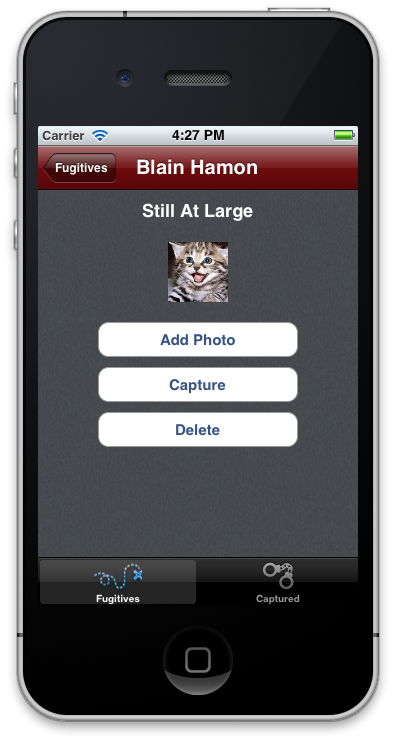
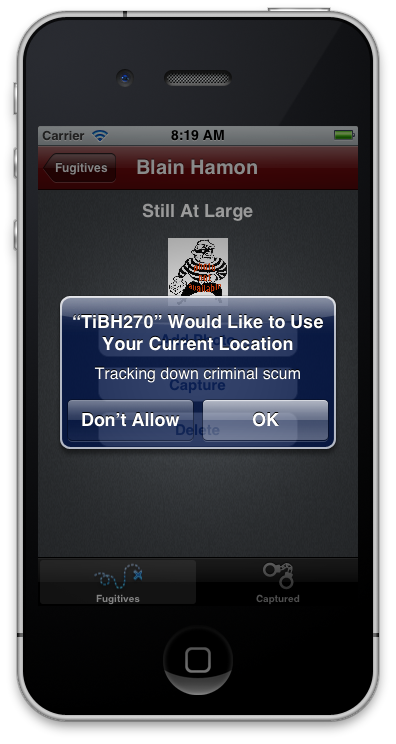
Lesson 270 and lab finished

diff --git a/270/lab.html b/270/lab.html
@@ -2,8 +2,8 @@
 <html>
 	<head>
 		<meta charset="utf-8">
-		<title class="l_labname">Lab: Working with Media and the File System</title>
-		<meta name="description" content="Building Native Mobile Apps, Working with Local Data">
+		<title class="l_labname">Lab: Using Location Services</title>
+		<meta name="description" content="Building Native Mobile Apps,  Using Location Services">
     	<meta name="author" content="Appcelerator, Inc." />
 		
 		<link href='http://fonts.googleapis.com/css?family=Lato:400,700,400italic,700italic' rel='stylesheet' type='text/css'>
@@ -52,66 +52,80 @@
 <section>
 
 <!-- YOUR LAB CONTENT GOES HERE -->
-<h1 class="l_labname">Lab - Working with Media and the File System</h1>
-<p class="l_mission"><img src='labimages/finished_iphone.png' style='height:300px;float:right;margin-top:-40px;margin-bottom: 10px;'><strong>Mission: </strong>In this lab assignment, you will use the camera to add an image to your fugitive. You will save the image to the file system, and provide a url to the database for easy retrieval. You will also learn how to repopulate your database with remote data.</p>
+<h1 class="l_labname">Lab -  Using Location Services</h1>
+<p class="l_mission"><img src='labimages/finished_iphone.png' style='height:300px;float:right;margin-top:-40px;margin-bottom: 10px;'><strong>Mission: </strong>In this lab assignment, you will add geolocation support to TiBountyHunter. You will capture the latitude and longitude values marking the location where a fugitive is captured and store that data in the database. You'll offer the user an option to plot that location on a map.</p>
 
-<p class="l_specification"><strong>Specification: </strong>Start with the TiBountyHunter project you created for the last assignment. You will now add the camera function and mechanisms to support taking a picture, saving it, and retrieving it for viewing in a detail window. To successfully complete this lab, you must develop an application that meets the following description:</p>
+<p class="l_specification"><strong>Specification: </strong>Start with the TiBountyHunter project you created for the last assignment. You will add the features needed to support location services. To successfully complete this lab, you must develop an application that meets the following description:</p>
 
 <ul style="width:70%">
-	<li class="l_spec1">Add a button in the detail view to snap a picture with the camera.</li>
-	<li class="l_spec2">Save the image to the file system and in the database as a url.</li>
-	<li class="l_spec3">Extend the database model with the addPhoto function</li>
-	<li class="l_spec4">Extend the UI with the needed buttons and images</li>
+	<li class="l_spec1">Modify the database to store the latitude and longitude of where the fugitive was captured. For simplicity, rather than altering the existing database, modify the CREATE TABLE statement to define fields for those values. Then, uninstall the app from the simulator/emulator to force the database to be created again.</li>
+	<li class="l_spec2">When the Capture button is tapped, store the geo location in the database</li>
+	<li class="l_spec3">Add a Show on Map button that will display a map when clicked. The map should display the region surrounding the location where the fugitive was captured. An annotation should mark the specific location.</li>
+	<li class="l_spec4">Tip: To install onto an Android device, use the Google maps key from the Kitchen Sink app so that the map will work.</li>
 </ul>
 
 <table>
 	<tr>
-		<td colspan="2" class="labinstructions l_step1">1. Open the TiBountyHunter project you created for the last assignment, or download the starting point code and import it as a new project in Studio: <a href='http://assets.appcelerator.com.s3.amazonaws.com/app_u/code/TiBH260.zip'>http://assets.appcelerator.com.s3.amazonaws.com/app_u/code/TiBH260.zip</a></td>
+		<td colspan="2" class="labinstructions l_step1">1. Open the TiBountyHunter project you created for the last assignment, or download the starting point code and import it as a new project in Studio: <a href='http://assets.appcelerator.com.s3.amazonaws.com/app_u/code/TiBH270.zip'>http://assets.appcelerator.com.s3.amazonaws.com/app_u/code/TiBH270.zip</a></td>
 	</tr>
 	<tr>
 		<td class="tdfiller"><!-- leave empty--></td>
 		<td class="labexplanations l_stepexplanation1"></td>
 	</tr>
 	<tr>
-		<td colspan="2" class="labinstructions l_labstep2">2. Edit the lib/db.js file. <ul style='list-style:none;'><li>Update the 'bootstrap' code so that your database will include a TEXT field named 'url' to store the path to the fugitive's photo.</li><li>update list() to return the value of the 'url' field</li><li>Add a new addPhoto() function that will accept the fugitive's ID and the photo URL. It should fire the 'database updated' event.</li></ul></td>
+		<td colspan="2" class="labinstructions l_labstep2">2. Edit the lib/db.js file. <ul style='list-style:none;'><li>Update the 'bootstrap' code so that your database will include two new REAL fields named capturedLat and capturedLong</li><li>Update list() to return the value of those fields</li><li>Update the bust() function to accept two arguments for the latitude and longitude; store those values in the database</li></ul></td>
 	</tr>
 	<tr>
 		<td class="tdfiller"><!-- leave empty--></td>
 		<td class="labexplanations l_stepexplanation2">Because you're changing the database and we're not writing any alter-table statements, you will need to uninstall the app from the simulator/emulator. If you're starting a new project rather than editing your earlier work, this won't be a problem for you.</td>
 	</tr>
 <tr>
-	<td colspan="2" class="labinstructions l_labstep3">3. Edit the ui/common/DetailWindow.js file. <ul style='list-style:none;'><li>Add an ImageView at the top of the window that will show either the fugitive's photo or '/images/burglar.png' image if a photo isn't available.</li><li>Below the image, add an 'Add Photo' button that when clicked will show either the camera or photo gallery picker (if the camera isn't supported). Save the resulting image to the applicationDataDirectory with the name 'photo'+bountyID+'.png'. Save the path to that file to the database. Enable editing and save the result back to the gallery.</li></ul></td>
+	<td colspan="2" class="labinstructions l_labstep3">3. Edit the ui/common/DetailWindow.js file. In the Capture button's event listener, make these changes:<ul style='list-style:none;'><li>Add a geolocation purpose message to support iOS.</li><li>Use an if/else block and determine if location services are enabled. If so, set the accuracy to <code>ACCURACY_HIGH</code> on Android and <code>ACCURACY_BEST</code> on iOS.</li><li>Grab the one-time location value and if there's no error, call <code>db.bust()</code> and pass the lat/long values.</li><li>If there is an error, alert() the error to the user.</li><li>You'll need one more else block for the outer-if block: if location services are disabled, alert() a message to the user with the details.</ul></td>
 </tr>
 <tr>
 	<td class="tdfiller"><!-- leave empty--></td>
-	<td class="labexplanations l_labstepexplanation3"></td>
+	<td class="labexplanations l_labstepexplanation3">You will need to keep the existing net.bustFugitive() code; it should be within the block that successfully grabs the current location information.</td>
 </tr>
 <tr>
-	<td colspan="2" class="labinstructions l_step4">4. Make sure to update the internationalization strings.xml file.</td>
-</tr>
-<tr>
-	<td class="tdfiller"><!-- leave empty--></td>
-	<td class="labexplanations l_stepexplanation4"></td>
-</tr>
-<tr>
-	<td colspan="2" class="labinstructions l_labstep5">5. Build your app for the iOS simulator or Android emulator. Add images to the photo gallery. Test the Add Photo functionality. Correct any problems that exist. </td>
+	<td colspan="2" class="labinstructions l_labstep4">4. Below the Capture button, add a 'Show on Map' button. When tapped, instantiate a map window (you'll write the module for that next), which you should open as a modal window. You'll be putting this module's file in the ui/common folder. Pass the bounty object to the map window's constructor.</td>
 </tr>
 <tr>
 	<td class="tdfiller"><!-- leave empty--></td>
-	<td class="labexplanations l_labstepexplanation5">Don't forget to uninstall the old version of the app before running the new version.</td>
+	<td class="labexplanations l_labstepexplanation4"></td>
+</tr>
+<tr>
+	<td colspan="2" class="labinstructions l_labstep5">5. In the ui/common folder, add a new module file for your map window. In that module, create a Window that contains a Map view. The map should have one annotation marking the fugitive's latitude and longitude. Use the Standard map type, show a region bounded by one-tenth of a degree centered on the fugitive's location. For iOS, you'll need a navigation bar button to close the window.</td>
+</tr>
+<tr>
+	<td class="tdfiller"><!-- leave empty--></td>
+	<td class="labexplanations l_labstepexplanation5">5</td>
+</tr>
+
+<tr>
+	<td colspan="2" class="labinstructions l_labstep6">6. Make sure to update the internationalization strings.xml file.</td>
+</tr>
+<tr>
+	<td class="tdfiller"><!-- leave empty--></td>
+	<td class="labexplanations l_stepexplanation6"></td>
+</tr>
+<tr>
+	<td colspan="2" class="labinstructions l_labstep7">7. Build your app for the iOS simulator or Android emulator. Capture a fugitive; on iOS you should permit location services. Test the Show on Map functionality with a captured fugitive. Correct any problems that exist. </td>
+</tr>
+<tr>
+	<td class="tdfiller"><!-- leave empty--></td>
+	<td class="labexplanations l_labstepexplanation7">Don't forget to uninstall the old version of the app before running the new version.</td>
 </tr>
 </table>
 
 <h2 class="l_summary">Summary</h2>
-<p class="l_summarypara">In this lab, you added images and support for the camera or photo gallery to TiBountyHunter. You saved those images to the local file system, and saved the path to those images in the database to limit the chances of over-consuming memory when you later read that database.</p>
+<p class="l_summarypara">In this lab, you added geolocation support and a plotted a map showing where fugitives were captured. You handled platform differences and geolocation errors.</p>
 
 <h2 class="l_resources">Resources</h2>
 
 <ul>
-	<li class="l_resources1">API docs: Media: <a href='http://docs.appcelerator.com/titanium/2.0/index.html#!/api/Titanium.Media'>http://docs.appcelerator.com/titanium/2.0/index.html#!/api/Titanium.Media</a></li>
-	<li class="l_resources2">API docs: Filesystem <a href='http://docs.appcelerator.com/titanium/2.0/index.html#!/api/Titanium.Filesystem'>http://docs.appcelerator.com/titanium/2.0/index.html#!/api/Titanium.Filesystem</a></li>
-	<li class="l_resources3">Guides: Filesystem Access and Storage: <a href='http://docs.appcelerator.com/titanium/2.0/index.html#!/guide/Filesystem_Access_and_Storage'>http://docs.appcelerator.com/titanium/2.0/index.html#!/guide/Filesystem_Access_and_Storage</a></li>
-	<li class="l_resources4">Finished code: See the next lab or <a href='https://github.com/appcelerator-training/tcad-code/tree/master/Finished_code/TiBH260'>GitHub</a></li>
+	<li class="l_resources1">API docs: Geolocation: <a href='http://docs.appcelerator.com/titanium/2.0/index.html#!/api/Titanium.Geolocation'>http://docs.appcelerator.com/titanium/2.0/index.html#!/api/Titanium.Geolocation</a></li>
+	<li class="l_resources2">Guides: Tracking Postion and Heading: <a href='http://docs.appcelerator.com/titanium/2.0/index.html#!/guide/Tracking_Position_and_Heading'>http://docs.appcelerator.com/titanium/2.0/index.html#!/guide/Tracking_Position_and_Heading</a></li>
+	<li class="l_resources3">Finished code: See the next lab or <a href='https://github.com/appcelerator-training/tcad-code/tree/master/Finished_code/TiBH270'>GitHub</a></li>
 </ul>
 
 

diff --git a/270/i18n/lablocalizations.js b/270/i18n/lablocalizations.js
@@ -1,0 +1,46 @@
+/*
+	Localization strings file. To translate, copy the entire "en-US" branch, paste in as new member of the object, 
+	set its name to be the two-letter language code, and translate each string.
+	As shown, strings can include simple HTML.
+*/
+String.toLocaleString({
+	"en-US": {
+		"%l_labname": "Lab - Using Location Services",
+		"%l_mission": "<img src='labimages/finished_iphone.png' style='height:300px;float:right;margin-top:-40px;margin-bottom: 10px;'><strong>Mission: </strong>In this lab assignment, you will add geolocation support to TiBountyHunter. You will capture the latitude and longitude values marking the location where a fugitive is captured and store that data in the database. You'll offer the user an option to plot that location on a map.",
+		"%l_specification": "<strong>Specification: </strong>Start with the TiBountyHunter project you created for the last assignment. You will add the features needed to support location services. To successfully complete this lab, you must develop an application that meets the following description:",
+		"%l_spec1": "Modify the database to store the latitude and longitude of where the fugitive was captured. For simplicity, rather than altering the existing database, modify the CREATE TABLE statement to define fields for those values. Then, uninstall the app from the simulator/emulator to force the database to be created again.",
+		"%l_spec2": "When the Capture button is tapped, store the geo location in the database.",
+		"%l_spec3": "Add a Show on Map button that will display a map when clicked. The map should display the region surrounding the location where the fugitive was captured. An annotation should mark the specific location.",
+		"%l_spec4": "Tip: To install onto an Android device, use the Google maps key from the Kitchen Sink app so that the map will work.",
+		
+		"%l_labstep1": "1. Open the TiBountyHunter project you created for the last assignment, or download the starting point code and import it as a new project in Studio: <a href='http://assets.appcelerator.com.s3.amazonaws.com/app_u/code/TiBH270.zip'>http://assets.appcelerator.com.s3.amazonaws.com/app_u/code/TiBH270.zip</a>",
+		"%l_labstepexplanation1": "",
+
+		"%l_labstep2": "2. Edit the lib/db.js file. <ul style='list-style:none;'><li>Update the 'bootstrap' code so that your database will include two new REAL fields named capturedLat and capturedLong</li><li>Update list() to return the value of those fields</li><li>Update the bust() function to accept two arguments for the latitude and longitude; store those values in the database</li></ul>",
+		"%l_labstepexplanation2": "Because you're changing the database and we're not writing any alter-table statements, you will need to uninstall the app from the simulator/emulator. If you're starting a new project rather than editing your earlier work, this won't be a problem for you.",
+
+		"%l_labstep3": "3. Edit the ui/common/DetailWindow.js file. In the Capture button's event listener, make these changes:<ul style='list-style:none;'><li>Add a geolocation purpose message to support iOS.</li><li>Use an if/else block and determine if location services are enabled. If so, set the accuracy to <code>ACCURACY_HIGH</code> on Android and <code>ACCURACY_BEST</code> on iOS.</li><li>Grab the one-time location value and if there's no error, call <code>db.bust()</code> and pass the lat/long values.</li><li>If there is an error, alert() the error to the user.</li><li>You'll need one more else block for the outer-if block: if location services are disabled, alert() a message to the user with the details.</ul>",
+		"%l_labstepexplanation3": "You will need to keep the existing net.bustFugitive() code; it should be within the block that successfully grabs the current location information.",
+
+		"%l_labstep4": "4. Below the Capture button, add a 'Show on Map' button. When tapped, instantiate a map window (you'll write the module for that next), which you should open as a modal window. You'll be putting this module's file in the ui/common folder. Pass the bounty object to the map window's constructor.",
+		"%l_labstepexplanation4": "",
+
+		"%l_labstep5": "5. In the ui/common folder, add a new module file for your map window. In that module, create a Window that contains a Map view. The map should have one annotation marking the fugitive's latitude and longitude. Use the Standard map type, show a region bounded by one-tenth of a degree centered on the fugitive's location. For iOS, you'll need a navigation bar button to close the window.",
+		"%l_labstepexplanation5": "",
+
+		"%l_labstep6": "6. Make sure to update the internationalization strings.xml file.",
+		"%l_labstepexplanation6": "",
+
+		"%l_labstep5": "7. Build your app for the iOS simulator or Android emulator. Capture a fugitive; on iOS you should permit location services. Test the Show on Map functionality with a captured fugitive. Correct any problems that exist. ",
+		"%l_labstepexplanation7": "Don't forget to uninstall the old version of the app before running the new version.",
+
+		"%l_summary": "Summary",
+		"%l_summarypara": "In this lab, you added geolocation support and a plotted a map showing where fugitives were captured. You handled platform differences and geolocation errors.",
+
+		"%l_resources": "Resources",
+		"%l_resources1": "API docs: Geolocation: <a href='http://docs.appcelerator.com/titanium/2.0/index.html#!/api/Titanium.Geolocation'>http://docs.appcelerator.com/titanium/2.0/index.html#!/api/Titanium.Geolocation</a>",
+		"%l_resources2": "Guides: Tracking Postion and Heading: <a href='http://docs.appcelerator.com/titanium/2.0/index.html#!/guide/Tracking_Position_and_Heading'>http://docs.appcelerator.com/titanium/2.0/index.html#!/guide/Tracking_Position_and_Heading</a>",
+		"%l_resources3": "Finished code: See the next lab or <a href='https://github.com/appcelerator-training/tcad-code/tree/master/Finished_code/TiBH270'>GitHub</a>",
+
+	}
+});
